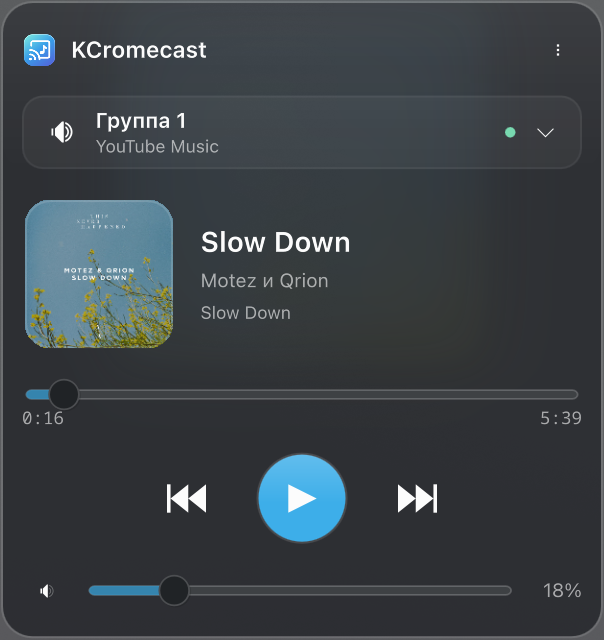
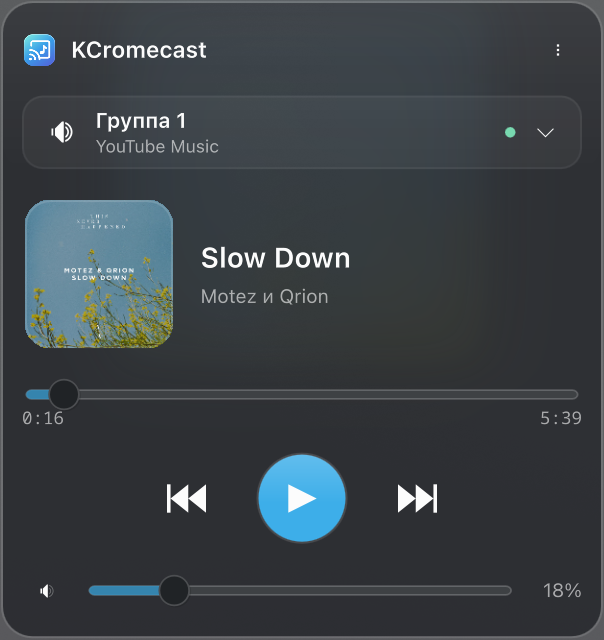
Record validation and final compact player preview

Changed region(s): [[0.3278, 0.3438, 0.596, 0.5]]

diff --git a/VALIDATION.md b/VALIDATION.md
@@ -1,0 +1,17 @@
+# Проверка 1.0.0
+
+Дата: 23 октября 2026 года.
+
+Среда: KDE Plasma 6.8.1, Qt 6.12.0, Kirigami 6.31.0, Python 3.14.8, Wayland.
+
+- 13 автоматических проверок: управление существующей сессией, сохранение паузы при перемотке, относительная громкость, ограничения команд, таймер и его завершение, отключённые устройства, формат Spotify, авторизация и обработка ошибочных запросов.
+- `qmllint`: компоненты интерфейса и настройки проходят проверку.
+- `pip check`: конфликтов зависимостей нет. Фактические версии сохранены в `requirements.lock`.
+- Реальная сеть: две Technics SC-C30 и их Google Cast Group обнаружены и подключены.
+- Реальный YouTube Music: обложка, метаданные, состояние и громкость; пауза/продолжение, относительная громкость, установка/отмена таймера. Исходные громкость и состояние восстановлены.
+- Предыдущий/следующий треки на этой группе ранее проверены через тот же публичный MediaController API.
+- Интерфейс проверен в панели: компактный вариант 352 × 372, обложка рядом с треком, русский перевод, состояние паузы и громкость. В журнале форка ошибок QML нет.
+- Spotify Cast: распознавание источника и форматы метаданных проверены автоматически. Живая сессия Spotify на колонках пока не проверена. Нативный Spotify Connect не реализован.
+- Сборка создаёт `.plasmoid` и исходный ZIP, содержащий установщик модуля связи. Токены и пользовательские настройки в архивы не входят.
+
+Будущие версии Plasma/Qt и нестандартные Cast-приёмники требуют отдельной проверки. Автоматические тесты не подменяют проверку конкретного устройства и приложения.
